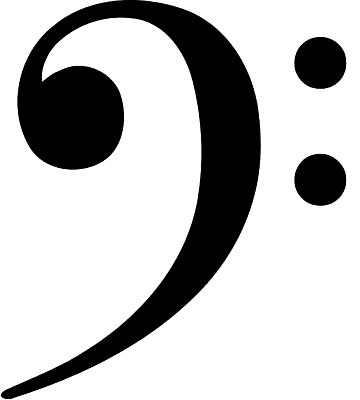
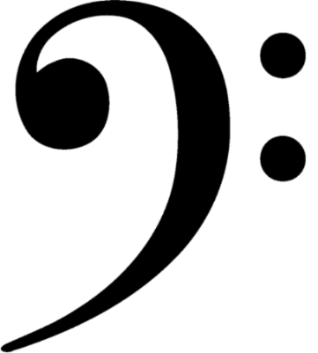
Changing clefs feature

diff --git a/src/SongCreatorWindow/Model/ModelManager.java b/src/SongCreatorWindow/Model/ModelManager.java
@@ -27,32 +27,36 @@ public class ModelManager implements Serializable
     public void setProjectDestination(String name) { projectDestination = name; }
     public String getProjectDestination() { return projectDestination; }
 
-    MusicClefSelection selectedDefaultKey = GlobalSettings.defaultMusicKey;
+    MusicClefSelection selectedDefaultKey = GlobalSettings.defaultMusicClef;
     public void setDefaultMusicKeySelection(MusicClefSelection musicKey) { selectedDefaultKey = musicKey; }
     public MusicClefSelection getDefaultMusicKeySelection() { return selectedDefaultKey; }
-    private int getBasePointSound()
+    private int getBasePointSound(MusicClefSelection musicClefSelection)
     {
         int base = -1;
 
-        switch (selectedDefaultKey)
+        switch (musicClefSelection)
         {
-            case ViolinKey:
+            case ViolinClef:
                 base = 67;//NoteToNumericValue.Get_Octave_5_sound_G(); // 67 - G5
                 break;
-            case BassKey:
+            case BassClef:
                 base = 53;//NoteToNumericValue.Get_Octave_4_sound_F(); // 53 - F4
                 break;
-            case AltoKey:
+            case AltoClef:
                 base = 60;//NoteToNumericValue.Get_Octave_5_sound_C(); // 60 - C5
                 break;
         }
 
         return base;
     }
-    private String getCalculatedSoundValue(int insertY)
+    private String getCalculatedSoundValue(int insertY, MusicClefSelection musicClefSelection)
     {
-        int base = getBasePointSound();
-        int move_sound_by = (insertY - 40) / 10;
+        int base = getBasePointSound(musicClefSelection);
+        int move_sound_by = switch(musicClefSelection){
+            case ViolinClef -> (insertY - 40) / 10;
+            case BassClef -> insertY / 10;
+            case AltoClef -> (insertY - 20) / 10;
+        };
 
         List<Integer> numericalNoNFlatSounds = Note.getNonFlatSoundNumericalValues();
 
@@ -251,7 +255,7 @@ public class ModelManager implements Serializable
                         modelManager.addMusicSymbol(
                                 i,
                                 (int)(startX),
-                                (modelManager.getBasePointSound() - noteValue) * 10 + 40
+                                (modelManager.getBasePointSound(defaultMusicClef) - noteValue) * 10 + 40
                         );
                     }
 
@@ -299,6 +303,14 @@ public class ModelManager implements Serializable
 
     public void addMusicSymbol(int pathIndex, int insertX, int insertY, char duration)
     {
+        Path path;
+        try {
+            path = musicPaths.get(pathIndex);
+        }
+        catch(RuntimeException e)
+        {
+            path = musicPaths.get(pathIndex - 1);
+        }
 
         IPlayable sound = null;
 
@@ -306,8 +318,8 @@ public class ModelManager implements Serializable
 
         Note note;
         if(instrument > 0)
-            note = Note.CreateNote(getCalculatedSoundValue(insertY), duration, GlobalSettings.InstrumentForParticularNoteChoice);
-        else note = Note.CreateNote(getCalculatedSoundValue(insertY), duration);
+            note = Note.CreateNote(getCalculatedSoundValue(insertY, path.getMusicClefSelection()), duration, GlobalSettings.InstrumentForParticularNoteChoice);
+        else note = Note.CreateNote(getCalculatedSoundValue(insertY, path.getMusicClefSelection()), duration);
         note.setTimeX(insertX);
         note.setSoundHeight(insertY);
 
@@ -319,15 +331,6 @@ public class ModelManager implements Serializable
                 Accord accord = new Accord(note, GlobalSettings.accordSelectionName);
                 sound = accord;
             }
-        }
-
-        Path path;
-        try {
-            path = musicPaths.get(pathIndex);
-        }
-        catch(RuntimeException e)
-        {
-            path = musicPaths.get(pathIndex - 1);
         }
         path.addSound(sound);
 
@@ -431,11 +434,11 @@ public class ModelManager implements Serializable
 
     public void changeMusicClefOfSelectedPath(MusicClefSelection musicClef)
     {
-        selectedPath.setMusicClefSelection(musicClef);
+        int soundShift = selectedPath.setMusicClefSelection(musicClef);
 
         System.out.println(String.format("Music clef of path \"%s\" changed to %s", selectedPath.getName(), musicClef));
 
-        fireOnPathClefChanged(selectedPath);
+        fireOnPathClefChanged(selectedPath, soundShift);
     }
 
     /**
@@ -562,15 +565,16 @@ public class ModelManager implements Serializable
     /**
      * Raise event when path's clef has been changed
      * @param path
+     * @param soundShift
      */
-    private void fireOnPathClefChanged(Path path)
+    private void fireOnPathClefChanged(Path path, int soundShift)
     {
         Iterator iterator = pathListeners.iterator();
 
         while(iterator.hasNext()) {
             try{
                 IPathEvent pathEvent = (IPathEvent) iterator.next();
-                pathEvent.onPathClefChanged(path);
+                pathEvent.onPathClefChanged(path, soundShift);
             }
             catch (Exception e){}
         }

diff --git a/src/SongCreatorWindow/View/ViewManagerModelChangesHandling.java b/src/SongCreatorWindow/View/ViewManagerModelChangesHandling.java
@@ -377,7 +377,7 @@ public class ViewManagerModelChangesHandling implements IPathEvent, ISoundEvent,
             );
 
         //add (default Violin) music key
-        Image musicKeyImage = ImageManager.getInstance().setDimensions(GlobalSettings.musicClefWidth, GlobalSettings.getMusicKeyHeight()).getMusicClef(path.getMusicClefSelection());
+        Image musicKeyImage = ImageManager.getInstance().setDimensions(GlobalSettings.musicClefWidth, GlobalSettings.getMusicClefHeight()).getMusicClef(path.getMusicClefSelection());
         gc.drawImage(musicKeyImage, Height * 3, Height / 13);
 
         //Save created components
@@ -497,7 +497,7 @@ public class ViewManagerModelChangesHandling implements IPathEvent, ISoundEvent,
     }
 
     @Override
-    public void onPathClefChanged(Path path)
+    public void onPathClefChanged(Path path, int soundShift)
     {
         var canvas = canvasMap.get(path);
         var gc = canvas.getGraphicsContext2D();
@@ -517,8 +517,25 @@ public class ViewManagerModelChangesHandling implements IPathEvent, ISoundEvent,
                     GlobalSettings.getLinesStartHeight() + i * GlobalSettings.getLinesPadding()
             );
 
-        Image newClef = ImageManager.getInstance().getMusicClef(path.getMusicClefSelection());
-        gc.drawImage(newClef, Height * 3, Height / 13);
+        Image newClef;
+
+        switch (path.getMusicClefSelection()) {
+            case ViolinClef -> {
+                newClef = ImageManager.getInstance().setDimensions(GlobalSettings.musicClefWidth, GlobalSettings.getMusicClefHeight(path.getMusicClefSelection())).getMusicClef(MusicClefSelection.ViolinClef);
+                gc.drawImage(newClef, Height * 3, Height / 13);
+            }
+            case BassClef -> {
+                newClef = ImageManager.getInstance().setDimensions(GlobalSettings.musicClefWidth * .6, GlobalSettings.getMusicClefHeight(path.getMusicClefSelection()) * .6).getMusicClef(MusicClefSelection.BassClef);
+                gc.drawImage(newClef, Height * 3 + getLinesPadding() * 1.2, Height / 3.3);
+            }
+            case AltoClef -> {
+                newClef = ImageManager.getInstance().setDimensions(GlobalSettings.musicClefWidth * .81, GlobalSettings.getMusicClefHeight(path.getMusicClefSelection()) * .81).getMusicClef(MusicClefSelection.AltoClef);
+                gc.drawImage(newClef, Height * 3 + getLinesPadding() * .5, Height / 3.5);
+            }
+        }
+
+        for(IPlayable sound : path.getSounds())
+            onMusicSoundHeightChange(path, sound);
     }
 
     @Override

diff --git a/src/SongCreatorWindow/Controllers/MainController.java b/src/SongCreatorWindow/Controllers/MainController.java
@@ -268,7 +268,8 @@ public class MainController
 
     public void DuplicateSelectedPath(ActionEvent actionEvent)
     {
-        checkPathSelection();
+        if(!checkPathSelection())
+            return;
 
         try {
             modelManager.duplicateSelectedPath();
@@ -279,7 +280,8 @@ public class MainController
 
     public void RenameSelected(ActionEvent actionEvent)
     {
-        checkPathSelection();
+        if(!checkPathSelection())
+            return;
 
         //ask user for new name
         TextInputDialog window = new TextInputDialog("Changing path name");
@@ -293,14 +295,16 @@ public class MainController
 
     public void UnselectPath(ActionEvent actionEvent)
     {
-        checkPathSelection();
+        if(!checkPathSelection())
+            return;
 
         modelManager.clearSelectionOfPath();
     }
 
     public void DeleteSelected(ActionEvent actionEvent)
     {
-        checkPathSelection();
+        if(!checkPathSelection())
+            return;
 
         Alert alert = new Alert(Alert.AlertType.CONFIRMATION, "Are You sure to delete path?");
 
@@ -330,33 +334,38 @@ public class MainController
 
     public void ChangePathClefToViolin(ActionEvent actionEvent)
     {
-        checkPathSelection();
+        if(!checkPathSelection())
+            return;
 
-        modelManager.changeMusicClefOfSelectedPath(MusicClefSelection.ViolinKey);
+        modelManager.changeMusicClefOfSelectedPath(MusicClefSelection.ViolinClef);
     }
 
     public void ChangePathClefToBass(ActionEvent actionEvent)
     {
-        checkPathSelection();
+        if(!checkPathSelection())
+            return;
 
-        modelManager.changeMusicClefOfSelectedPath(MusicClefSelection.BassKey);
+        modelManager.changeMusicClefOfSelectedPath(MusicClefSelection.BassClef);
     }
 
     public void ChangePathClefToAlto(ActionEvent actionEvent)
     {
-        checkPathSelection();
+        if(!checkPathSelection())
+            return;
 
-        modelManager.changeMusicClefOfSelectedPath(MusicClefSelection.AltoKey);
+        modelManager.changeMusicClefOfSelectedPath(MusicClefSelection.AltoClef);
     }
 
-    private void checkPathSelection()
+    private boolean checkPathSelection()
     {
         if(modelManager.getSelectedPath() == null)
         {
             var alert = new Alert(Alert.AlertType.ERROR, "None path is selected");
             alert.showAndWait();
-            return;
+            return false;
         }
+
+        return true;
     }
 
     public void selectMusicSymbol(MouseEvent mouseEvent)

diff --git a/src/SongCreatorWindow/Model/Core/Path.java b/src/SongCreatorWindow/Model/Core/Path.java
@@ -26,9 +26,43 @@ public class Path implements Serializable
     }
 
     MusicClefSelection _selectedKey;
-    public void setMusicClefSelection(MusicClefSelection musicKey) {
-        _selectedKey = musicKey;
-        //TODO: zmieniaj wysokość nut w zależności od klucza
+
+    /**
+     * Sets the music clef
+     * @param musicClef music clef
+     * @return sound shift
+     */
+    public int setMusicClefSelection(MusicClefSelection musicClef)
+    {
+        int soundShift = 0;
+
+        switch (_selectedKey) {
+            case ViolinClef -> {
+                switch (musicClef) {
+                    case BassClef -> soundShift = -14;
+                    case AltoClef -> soundShift = -7;
+                }
+            }
+            case BassClef -> {
+                switch (musicClef) {
+                    case ViolinClef -> soundShift = 14;
+                    case AltoClef -> soundShift = 7;
+                }
+            }
+            case AltoClef -> {
+                switch (musicClef) {
+                    case ViolinClef -> soundShift = 7;
+                    case BassClef -> soundShift = -7;
+                }
+            }
+        }
+
+        for(var musicSound : _sounds)
+            musicSound.setSoundHeight((int) (musicSound.getSoundHeight() + GlobalSettings.getLinesPadding() / 2 * soundShift));
+
+        _selectedKey = musicClef;
+
+        return soundShift;
     }
     public MusicClefSelection getMusicClefSelection() { return _selectedKey; }
 

diff --git a/src/SongCreatorWindow/Model/GlobalSettings.java b/src/SongCreatorWindow/Model/GlobalSettings.java
@@ -45,24 +45,18 @@ public class GlobalSettings
      * Music Key Width setting
      */
     public static double musicClefWidth = 100.0;
-    public static double getMusicKeyHeight()
+    public static  double getMusicClefHeight(MusicClefSelection selection)
     {
-        double height = 0;
-
-        switch (defaultMusicKey)
-        {
-            case ViolinKey:
-                height = 170.62;
-                break;
-            case BassKey:
-                height = 111.11; // 53 - F4
-                break;
-            case AltoKey:
-                height = 107.95; // 60 - C5
-                break;
-        }
-
-        return height;
+        return switch (selection)
+                {
+                    case ViolinClef -> 170.62;
+                    case BassClef -> 111.11; // 53 - F4
+                    case AltoClef -> 107.95; // 60 - C5
+                };
+    }
+    public static double getMusicClefHeight()
+    {
+        return getMusicClefHeight(defaultMusicClef);
     }
 
     /**
@@ -96,7 +90,7 @@ public class GlobalSettings
     /**
      * Default music key selection for new path setting
      */
-    public static MusicClefSelection defaultMusicKey = MusicClefSelection.ViolinKey;
+    public static MusicClefSelection defaultMusicClef = MusicClefSelection.ViolinClef;
 
     /**
      * Instrument selection for particular note

diff --git a/src/Images/ImageManager.java b/src/Images/ImageManager.java
@@ -110,9 +110,9 @@ public class ImageManager
     {
         return switch (musicKeySelection)
         {
-            case ViolinKey -> getViolinKey();
-            case BassKey -> getBassKey();
-            case AltoKey -> getAltoKey();
+            case ViolinClef -> getViolinKey();
+            case BassClef -> getBassKey();
+            case AltoClef -> getAltoKey();
         };
     }
 

diff --git a/src/SongCreatorWindow/Model/Events/IPathEvent.java b/src/SongCreatorWindow/Model/Events/IPathEvent.java
@@ -8,5 +8,5 @@ public interface IPathEvent extends IMusicEvent
     void onPathNameRenamed(Path path);
     void onPathClearSelection();
     void onPathDeleted(Path path);
-    void onPathClefChanged(Path path);
+    void onPathClefChanged(Path path, int soundShift);
 }

diff --git a/src/SongCreatorWindow/Controllers/MusicSymbolsController.java b/src/SongCreatorWindow/Controllers/MusicSymbolsController.java
@@ -46,7 +46,7 @@ public class MusicSymbolsController implements IClickedEvent, IPathEvent
     }
 
     @Override
-    public void onPathClefChanged(Path path) {
+    public void onPathClefChanged(Path path, int soundShift) {
 
     }
 }

diff --git a/src/SongCreatorWindow/Model/Core/MusicClefSelection.java b/src/SongCreatorWindow/Model/Core/MusicClefSelection.java
@@ -2,7 +2,7 @@ package SongCreatorWindow.Model.Core;
 
 public enum MusicClefSelection
 {
-    ViolinKey,
-    BassKey,
-    AltoKey
+    ViolinClef,
+    BassClef,
+    AltoClef
 }
